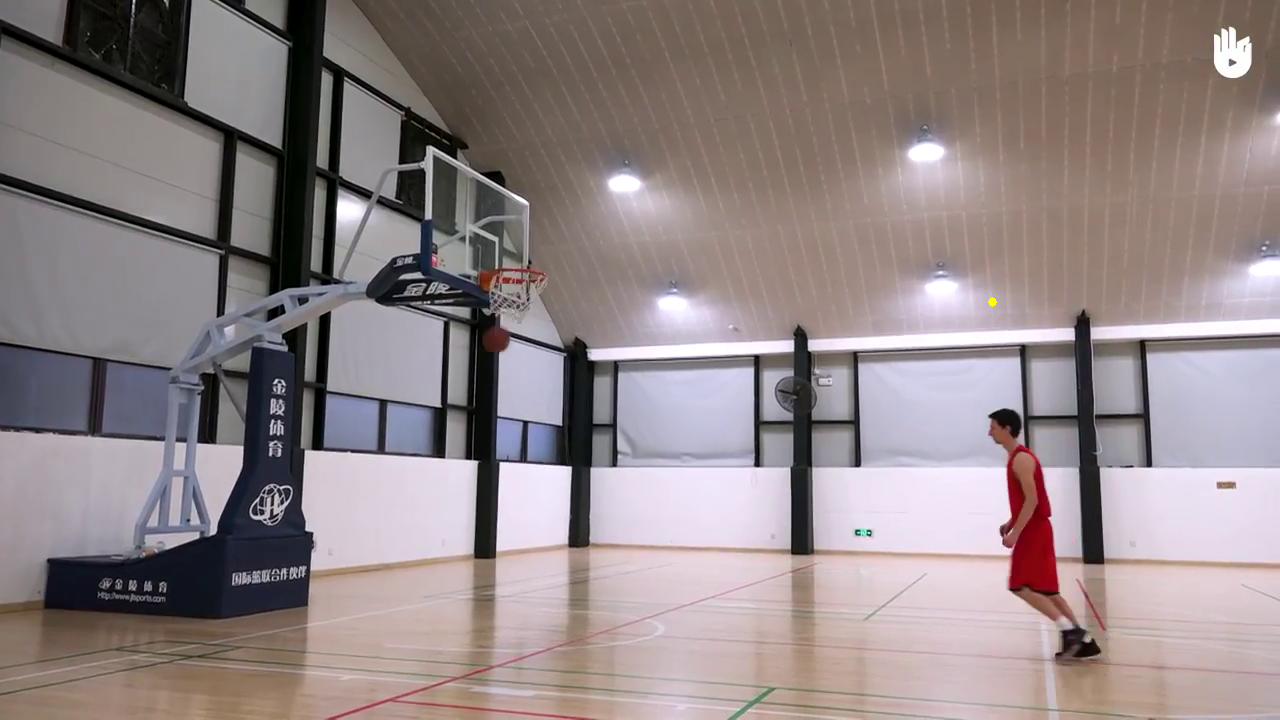
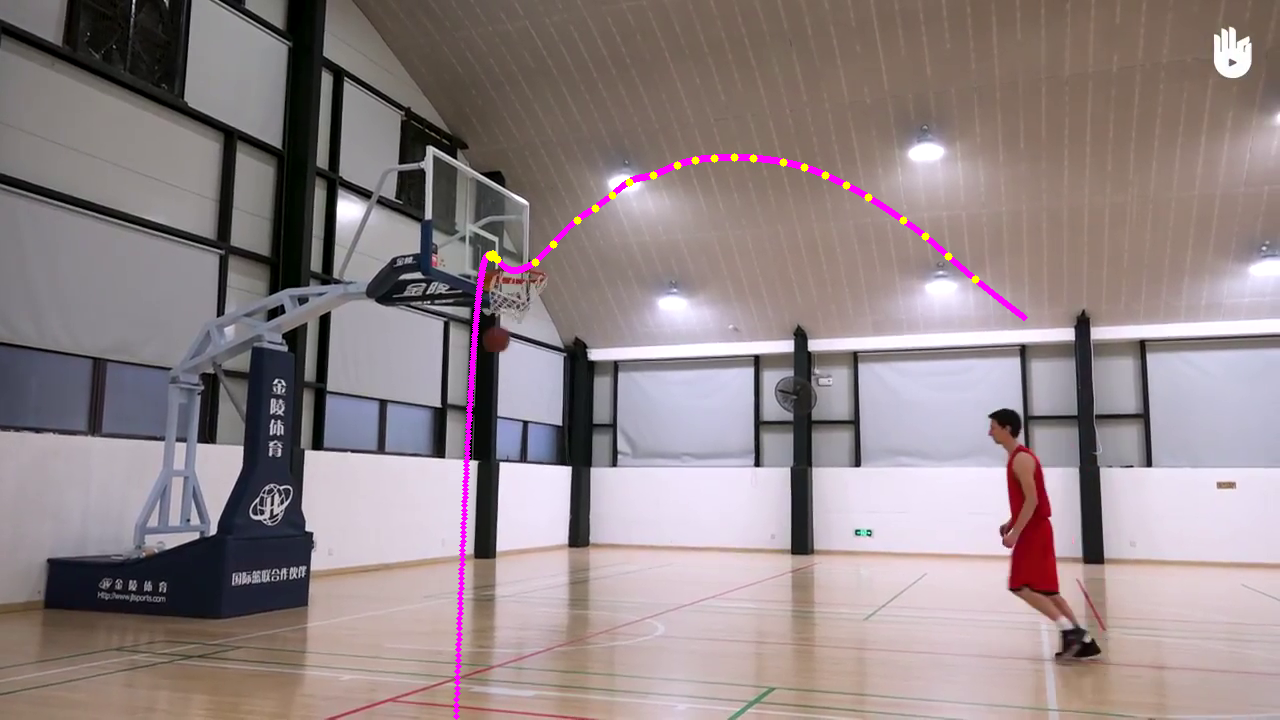
refactoring

diff --git a/motion_tracking.py b/motion_tracking.py
@@ -44,6 +44,13 @@ def get_initial_ball_position(video, detector):
     return (frame, initial_keypoint[0])
 
 
+def get_area_from_keypoint(keypoint): 
+    (x, y) = keypoint.pt
+    size = keypoint.size * 3
+    return (int(x - size / 2), int(y -size / 2), int(size), int(size))
+
+
+
 # def on_slider_change(value): 
 #     number_of_points_ignored = 15
 #     if value != number_of_points_ignored:  
@@ -63,7 +70,6 @@ def show_final_image(pts_list, points_ignored, frame, first_image = False):
     for (x, y) in pts_list:  
         cv2.circle(frame, (int(x), int(y)), 1, (0,255,255), 5)
     cv2.imshow('Final Interpolated function', frame)
-    cv2.waitKey()
     # if first_image:
     #     cv2.createTrackbar('slider', 'Final Interpolated function', 0, 30, on_slider_change)
 
@@ -120,10 +126,7 @@ def execute(video_n, tracker_type : Tracker, show_exec=True, show_res=True, save
     # EXECUTION
     # Ball detection
     (frame, initial_keypoint) = get_initial_ball_position(cap, detector)
-    # ball_area = get_keypoint_area(initial_keypoint)
-    (x, y) = initial_keypoint.pt
-    size = initial_keypoint.size * 3
-    ball_area = (int(x - size / 2), int(y -size / 2), int(size), int(size))
+    ball_area = get_area_from_keypoint(initial_keypoint)
 
     # Tracking initilization according to identification point
     ret = tracker.init(frame, ball_area)
@@ -168,6 +171,7 @@ def execute(video_n, tracker_type : Tracker, show_exec=True, show_res=True, save
         show_final_image(pts_list, number_of_points_ignored, get_last_frame(video_path), first_image=True)
 
     if save_res:
+        frame = get_last_frame(video_path)
         if not show_res:
             for (x, y) in calculate_curve(pts_list): 
                 cv2.circle(frame, (int(x), int(y)), 1, (255,0,255), 4)
@@ -176,8 +180,8 @@ def execute(video_n, tracker_type : Tracker, show_exec=True, show_res=True, save
         stat_str=""
         for (x, y) in pts_list:  
             stat_str="{}({},{})\n".format(stat_str,str(x),str(y))
-        stats_path="results/{}_{}.txt".format(tracker_type,video)
-        image_path="results/{}_{}.png".format(tracker_type,video)
+        stats_path="results/{}_{}.txt".format(Tracker.get_name(tracker_type),video)
+        image_path="results/{}_{}.png".format(Tracker.get_name(tracker_type),video)
         with open(stats_path, "w") as f:
             f.write("Number of points: {}\nPoints:\n{}".format(len(pts_list),stat_str))
         cv2.imwrite(image_path,frame)
@@ -199,4 +203,4 @@ def execute(video_n, tracker_type : Tracker, show_exec=True, show_res=True, save
 # for i in range(4,7):
 #     for j in range(7):
 #  Execute(video, tracker, show_execution, show_result, save_result)
-execute(1,Tracker.Boosting,True,True,False)
+execute(4, Tracker.CSRT, True, True, False)

diff --git a/tracker_types.py b/tracker_types.py
@@ -34,3 +34,22 @@ class Tracker(enum.Enum):
         #elif tracker_type == Tracker.CSRT:
             
         return cv2.legacy.TrackerCSRT_create()
+
+    def get_name(tracker_type): 
+        if tracker_type == Tracker.Boosting:
+            return "Tracker.Boosting"
+        elif tracker_type == Tracker.MIL:
+            return "Tracker.MIL"
+        elif tracker_type == Tracker.KCF:
+            return "Tracker.KCF"
+        elif tracker_type == Tracker.TLD:
+            return "Tracker.TLD"
+        elif tracker_type == Tracker.MedianFlow:
+            return "Tracker.MedianFlow"
+        elif tracker_type == Tracker.GOTURN:
+            return "Tracker.GOTURN"
+        elif tracker_type == Tracker.MOSSE:
+            return "Tracker.MOSSE"
+        #elif tracker_type == Tracker.CSRT:
+            
+        return "Tracker.CSRT"
